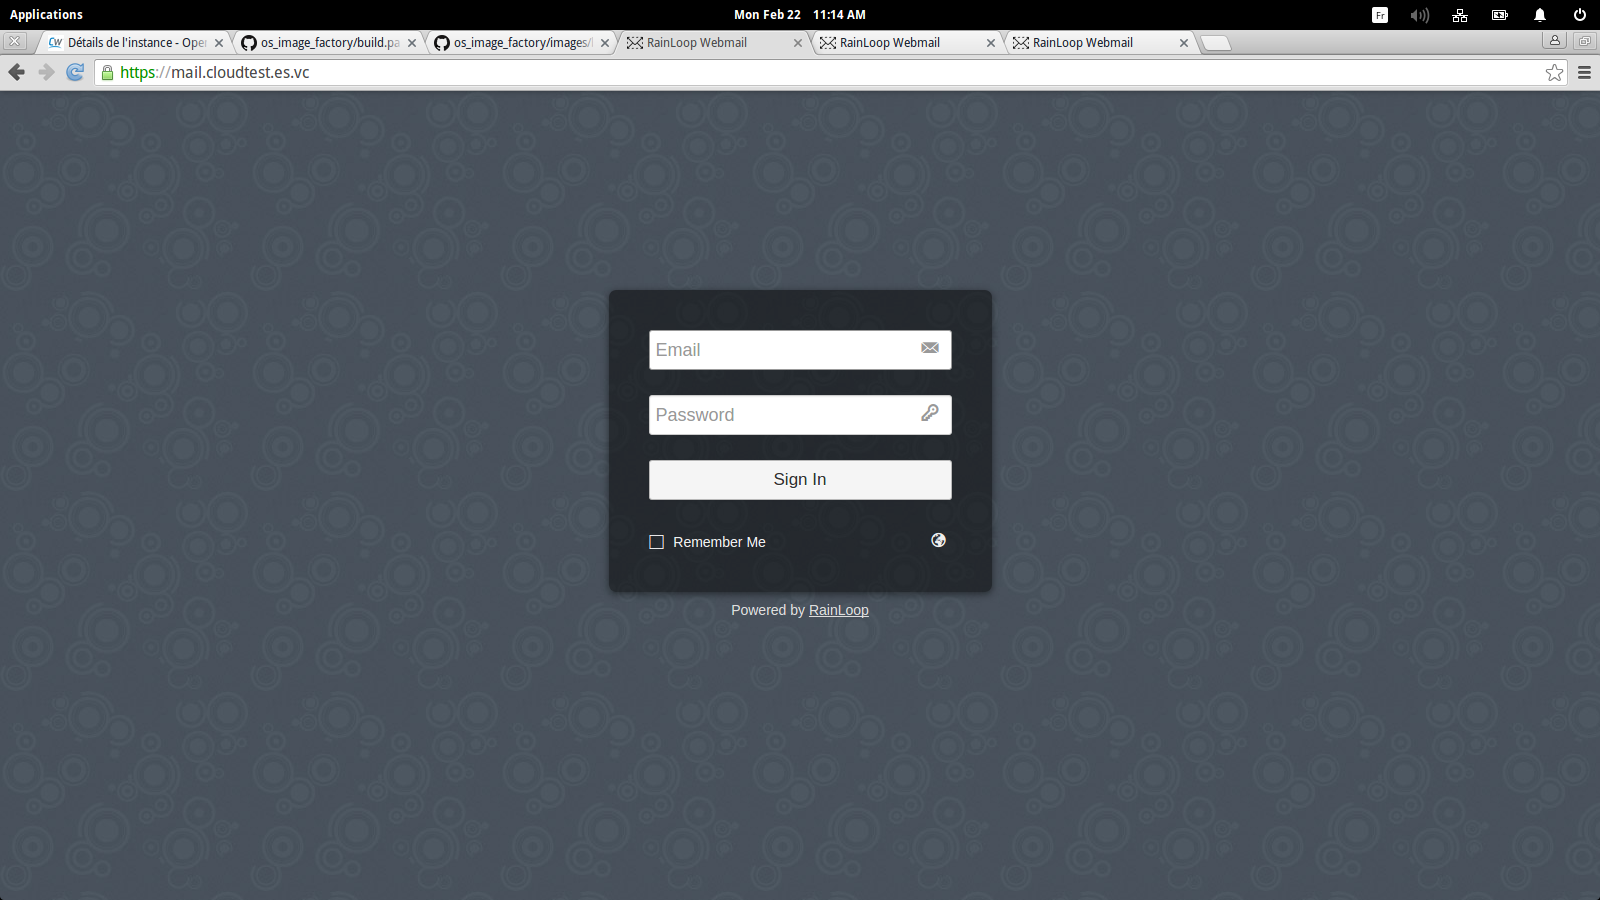
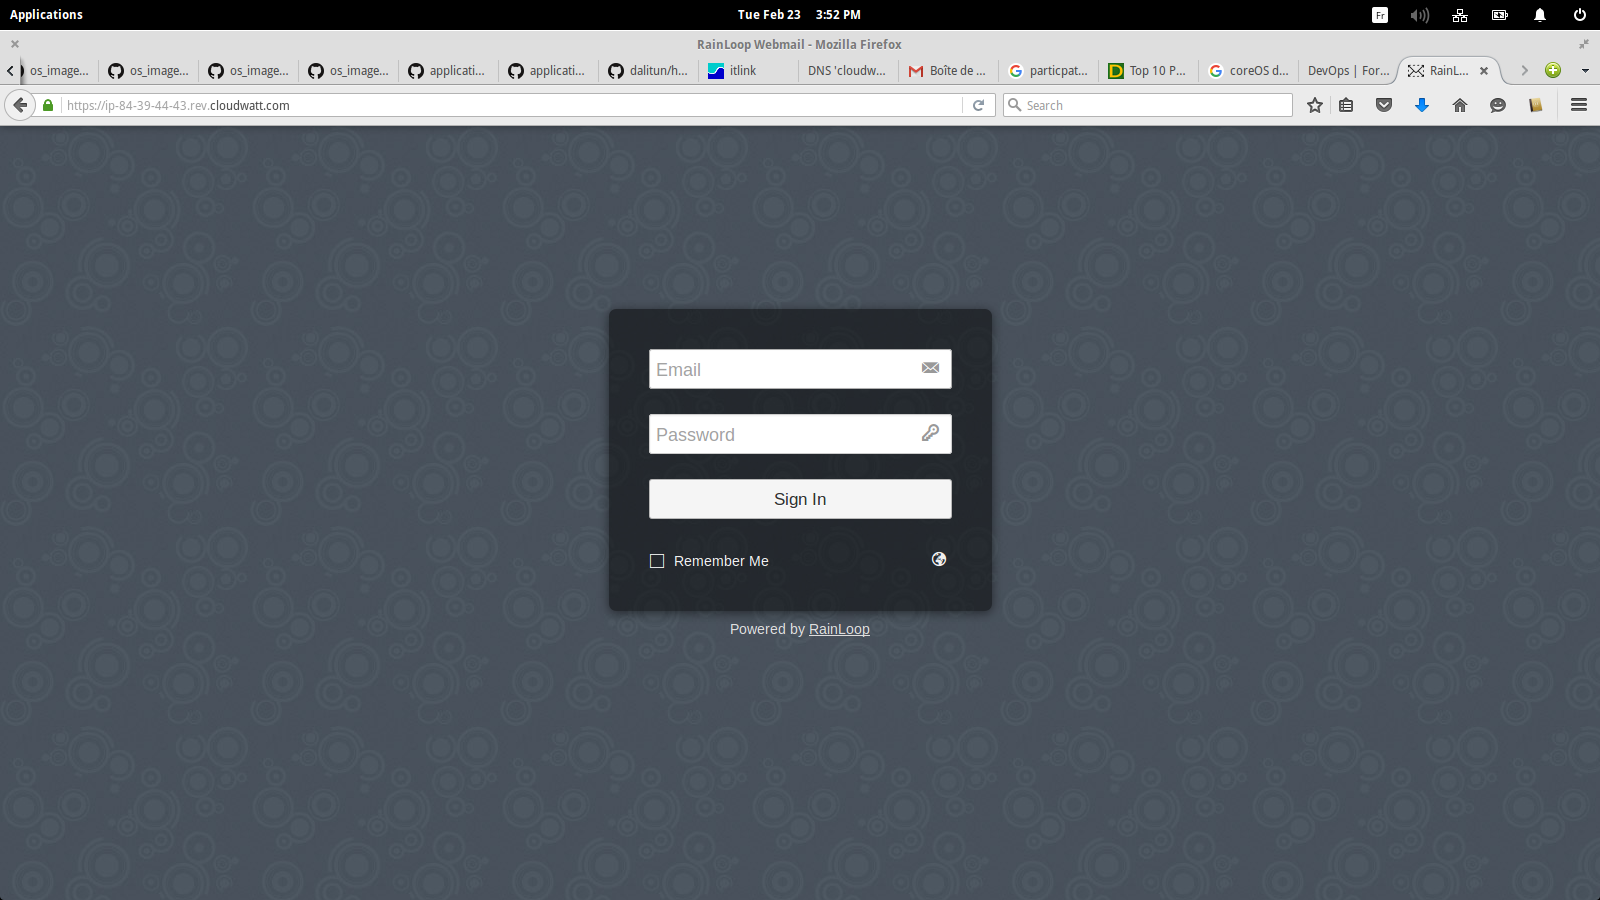
edit readme

Changed region(s): [[0.0, 0.0, 1.0, 0.1556], [0.375, 0.3111, 0.625, 0.7156]]

diff --git a/bundle-trusty-mail/README.md b/bundle-trusty-mail/README.md
@@ -2,20 +2,19 @@
 
 ## Episode 25 : Mail
 
-![postfixlogo](http://www.postfix.org/mysza.gif)
-![roundcube1](https://www.softaculous.com/images/softimages/118__logo.gif)
+![rainloop](http://www.rainloop.net/static/img/logo-256x256-tiny.png)
 
 Un serveur de messagerie (aussi connu comme un agent de transfert de courrier ou MTA, un agent de transport de courrier, un routeur mail ou un courrier Internet) est une application qui reçoit le courrier entrant des utilisateurs locaux (les gens dans le même domaine) et les expéditeurs à distance et e-mail avant sortant pour la livraison. Un ordinateur dédié à l'exécution de telles applications est aussi appelé un serveur de messagerie. Microsoft Exchange et Postfix sont parmi les programmes de serveur de messagerie les plus courants.
 ## Preparations
 
 ### Les versions
- - Ubuntu Trusty 14.04.3
+ - Ubuntu Trusty 14.04
  - Postfix 2.11.0
  - Dovecot 2.2.9
  - Clamsmtpd 1.10
  - Apache 2.4.7
  - Mysql 5.5.47
- - Roundcube 0.9.5
+ - Rainloop
 
 ### Les pré-requis pour déployer cette stack
 Ceci devrait être une routine à présent:
@@ -165,7 +164,7 @@ Pour se logger vous devez utiliser les utilisateurs Linux puis vous commencez à
 
 ![inbox](img/roundcube.png)
 Dans cette exemple nous avons utilisé le nom de domaine fourni par Cloudwatt vous pouvez le changer :
-Editez `etc/postfix/main.cf` and `/etc/apache2/sites-available/vhost.conf` puis redémarrer  les services Postfix, Dovecot et Apache2 
+Editez `etc/postfix/main.cf` and `/etc/apache2/sites-available/vhost.conf` puis redémarrer  les services Postfix, Dovecot et Apache2
 
 ~~~ bash
 # service postfix restart
@@ -184,7 +183,7 @@ Les chemins intéressants sur votre machine :
 
 `/etc/dovecot`: Fichiers de configuration Dovecot
 
-`/etc/roundcube`: Fichiers de configuration Roundcube 
+`/etc/roundcube`: Fichiers de configuration Roundcube
 
 #### Autres sources pouvant vous intéresser:
 * [ Postfix Home page](http://www.postfix.org/documentation.html)

diff --git a/bundle-trusty-mail/README_EN.md b/bundle-trusty-mail/README_EN.md
@@ -13,7 +13,7 @@ A mail server (also known as a mail transfer agent or MTA, a mail transport agen
  - Dovecot 2.2.9
  - Clamsmtpd 1.10
  - Apache 2.4.7
- - rainloop
+ - Rainloop
 
 ### The prerequisites to deploy this stack
 
@@ -170,10 +170,16 @@ http://yourDomainaName , https://yourDomainaName or http://floatingthroughIP/
 You have to arrive on this page:
 
 ![auth](./img/auth.png)
-
 For logging you have to use Linux users and you begin to send and recieve emails.
 
-![inbox](./img/rainloop.png)
+![inbox](./img/interface.png)
+
+user1 send an email to user2
+![inbox1](./img/sent.png)
+
+user2 recieve emai's user1
+
+![inbox](./img/receive.png)
 
 In this exemple we used the default domain name provided by cloudwatt (`https://ip-floatingip.rev.cloudwatt.com` juste you replace the "." by "-" in your floatingIP ( example: ip-10-11-12-13.rev.cloudwatt.com )),
 if you wannt to change the domain :
@@ -195,7 +201,11 @@ If you want to change rainloop configurations:
 
  ![admin1](./img/admin1.png)
 
-Don't froget to change admin password.
+Don't froget to change admin password through this interface
+
+![admin1](./img/admin2.png)
+
+
 
 An SSL certificate is automatically generated via Let's encrypt and it is renewed via a CRON job every 90 days.
 The updates ClamAv signatures is via cron everyday.
